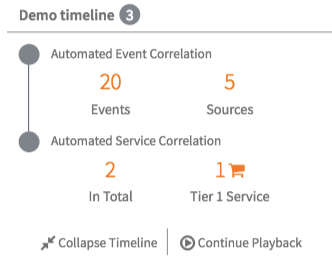
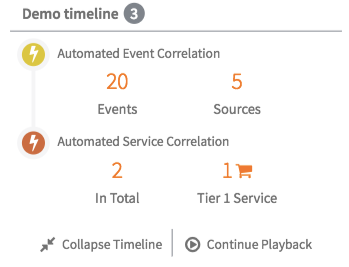
timeline

diff --git a/pe-timeline/widget_css/PE Timeline.scss b/pe-timeline/widget_css/PE Timeline.scss
@@ -49,48 +49,33 @@ $pe-timeline-items-color: #ff6f00 !default;
   }
 }
 
-/*.timeline-icon {
-  display: inline-block;
-  background-color: #7e848b;
-  width: 1.6em;
-  height: 1.6em;
-  text-align: center;
-  border-radius: 20px;
-  box-shadow: 0 0 0 5px #f5f5f6;
-  position: absolute;
-  top: 0px;
-  left: -6.5px;
-  &:first-child {
-    margin-left: -5px;
-  }
-}*/
-
 .timeline-icon {
   background: #fff;
-    color: #737881;
-    display: block;
-    width: 1.6em;
+  color: #737881;
+  display: block;
+  width: 1.6em;
   height: 1.6em;
-    -webkit-background-clip: padding-box;
-    -moz-background-clip: padding;
-    background-clip: padding-box;
-    -webkit-border-radius: 20px;
-    -moz-border-radius: 20px;
-    border-radius: 20px;
-    text-align: center;
-    -moz-box-shadow: 0 0 0 5px #f5f5f6;
-    -webkit-box-shadow: 0 0 0 5px #f5f5f6;
-    box-shadow: 0 0 0 5px #f5f5f6;
-    line-height: 40px;
-    font-size: 15px;
-    float: left;
-    position: absolute;
+  -webkit-background-clip: padding-box;
+  -moz-background-clip: padding;
+  background-clip: padding-box;
+  -webkit-border-radius: 20px;
+  -moz-border-radius: 20px;
+  border-radius: 20px;
+  text-align: center;
+  -moz-box-shadow: 0 0 0 5px #f5f5f6;
+  -webkit-box-shadow: 0 0 0 5px #f5f5f6;
+  box-shadow: 0 0 0 5px #f5f5f6;
+  line-height: 40px;
+  font-size: 15px;
+  float: left;
+  position: absolute;
   top: 0px;
   left: -9px;
   &:first-child {
     margin-left: -5px;
   }
 }
+
 .tl-icon {
   color: #fff;
   position: absolute;

diff --git a/pe-timeline/widget_html/PE Timeline.html b/pe-timeline/widget_html/PE Timeline.html
@@ -14,7 +14,7 @@
           ng-click="c.nextInitialEvent()">
           <div ng-if="c.data.show_ldescriptions" class="left-description">{{item.leftDescription}}</div>
           <div class="right-content">
-            <div ng-if="!c.data.show_colors" class="timeline-icon"></div>
+            <div ng-if="!c.data.show_colors" class="timeline-icon" style="background: #737881;"></div>
             <div ng-if="c.data.show_colors" class="timeline-icon" style="background: {{item.color}}"></div>
 
             <div ng-if="c.data.show_icons" class="tl-icon">

diff --git a/pe-timeline/Readme.md b/pe-timeline/Readme.md
@@ -6,7 +6,7 @@
 
 ![alt text](https://gitlab.com/dev-practice/platexp-widget-library/raw/master/images/pe-timeline-screenshot-03.png "Timeline Widget - In playback mode")
 
-![alt text](https://gitlab.com/dev-practice/platexp-widget-library/raw/master/images/pe-timeline-screenshot-04.png "Timeline Widget - With the option Show Icons set to True")
+![alt text](https://gitlab.com/dev-practice/platexp-widget-library/raw/master/images/pe-timeline-screenshot-04.png "Timeline Widget - With the option Show Icons and Show Colors set to True")
 
 This widget can be used to quickly opbtain an initial implementation of a timeline.
 
@@ -19,6 +19,8 @@ We provide few options to load data easily and also to change the appearance of 
 **"Title"** This is for changing the title in the header
 
 **"Show Icons"** This is for displaying the icons (font awesome or bootstrap) specified in the input data set, instead of the standard circle
+
+**"Show Colors"** This is for displaying the colors specified in the input data set (attribute *color*), instead of the default one
 
 **"Show Left Descriptions"** This is for displaying a text on the left for each element in the timeline
 
